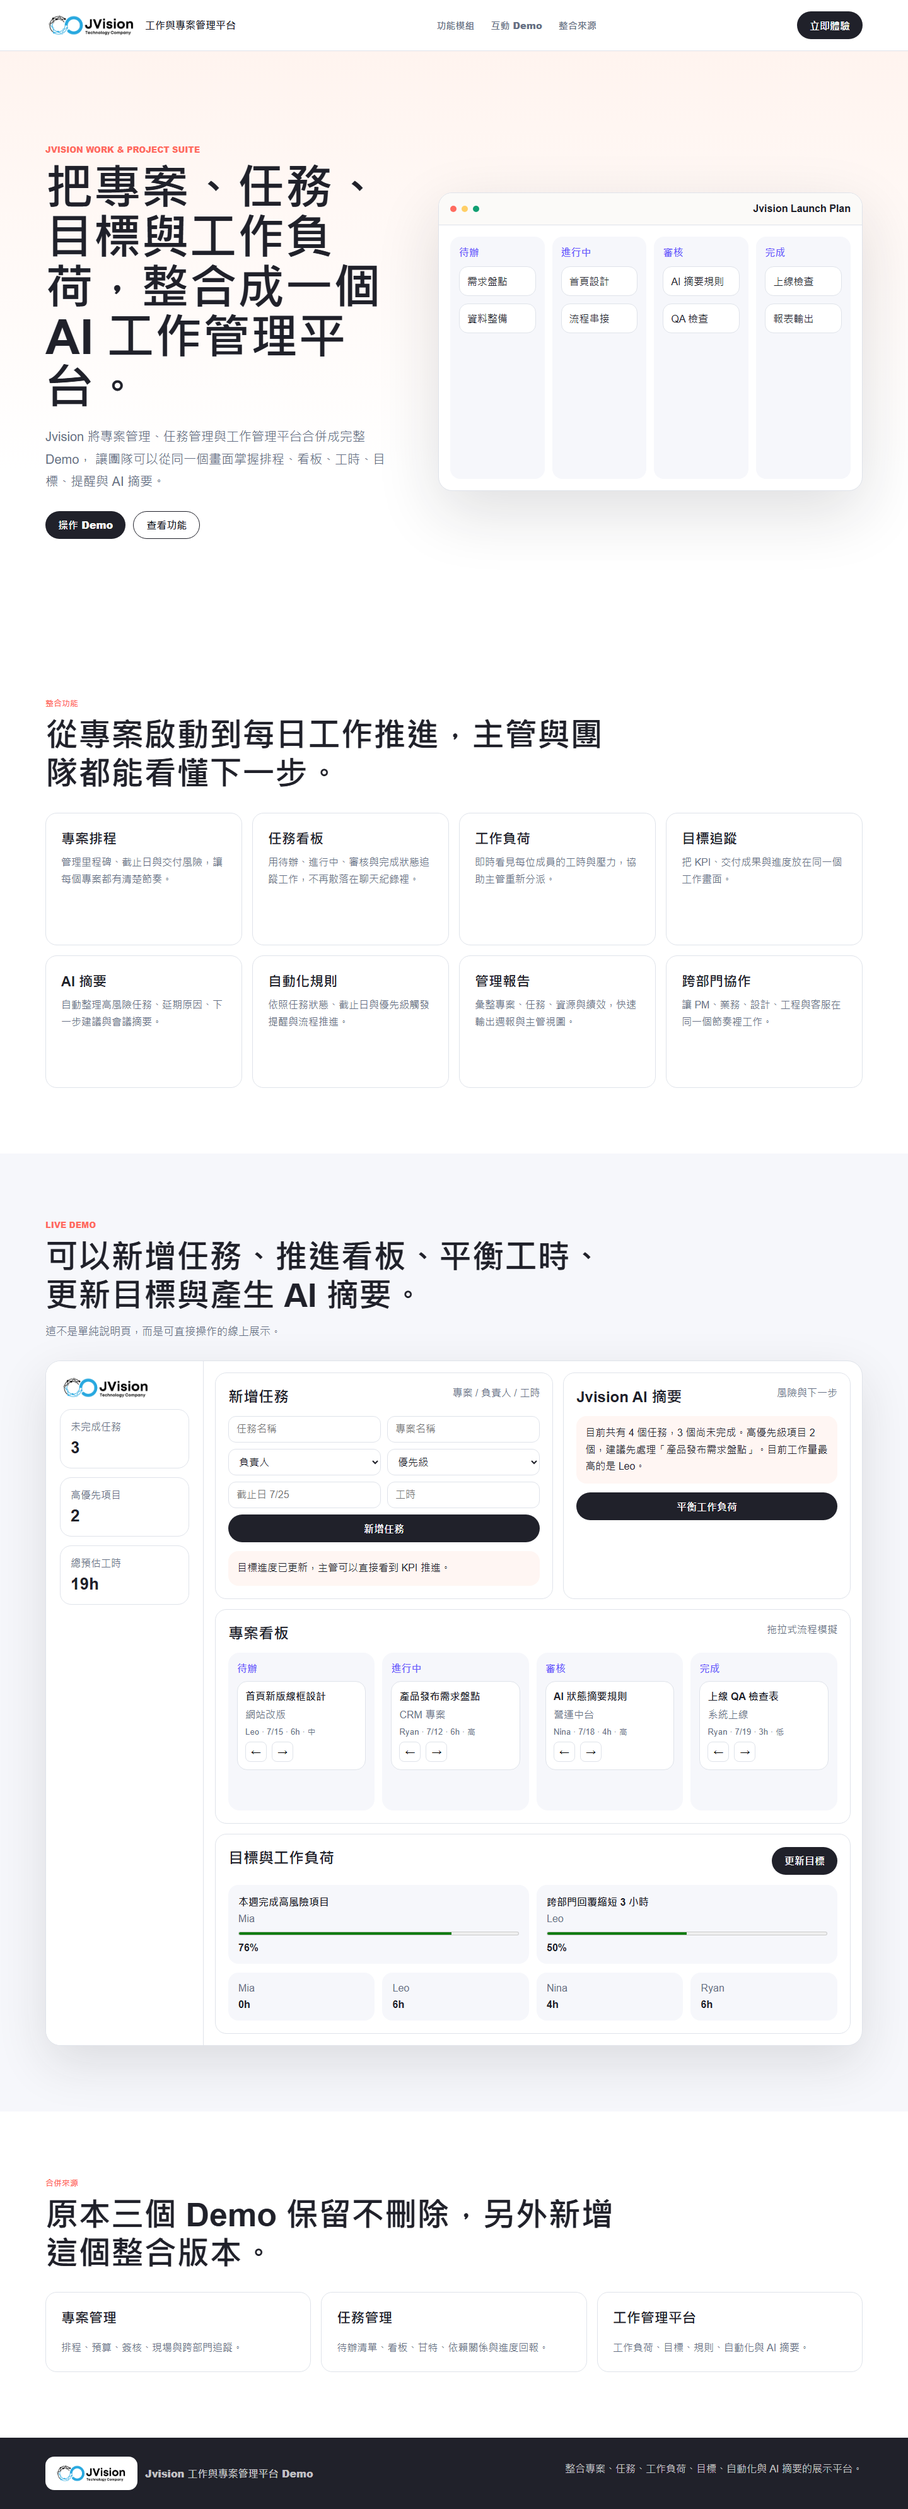
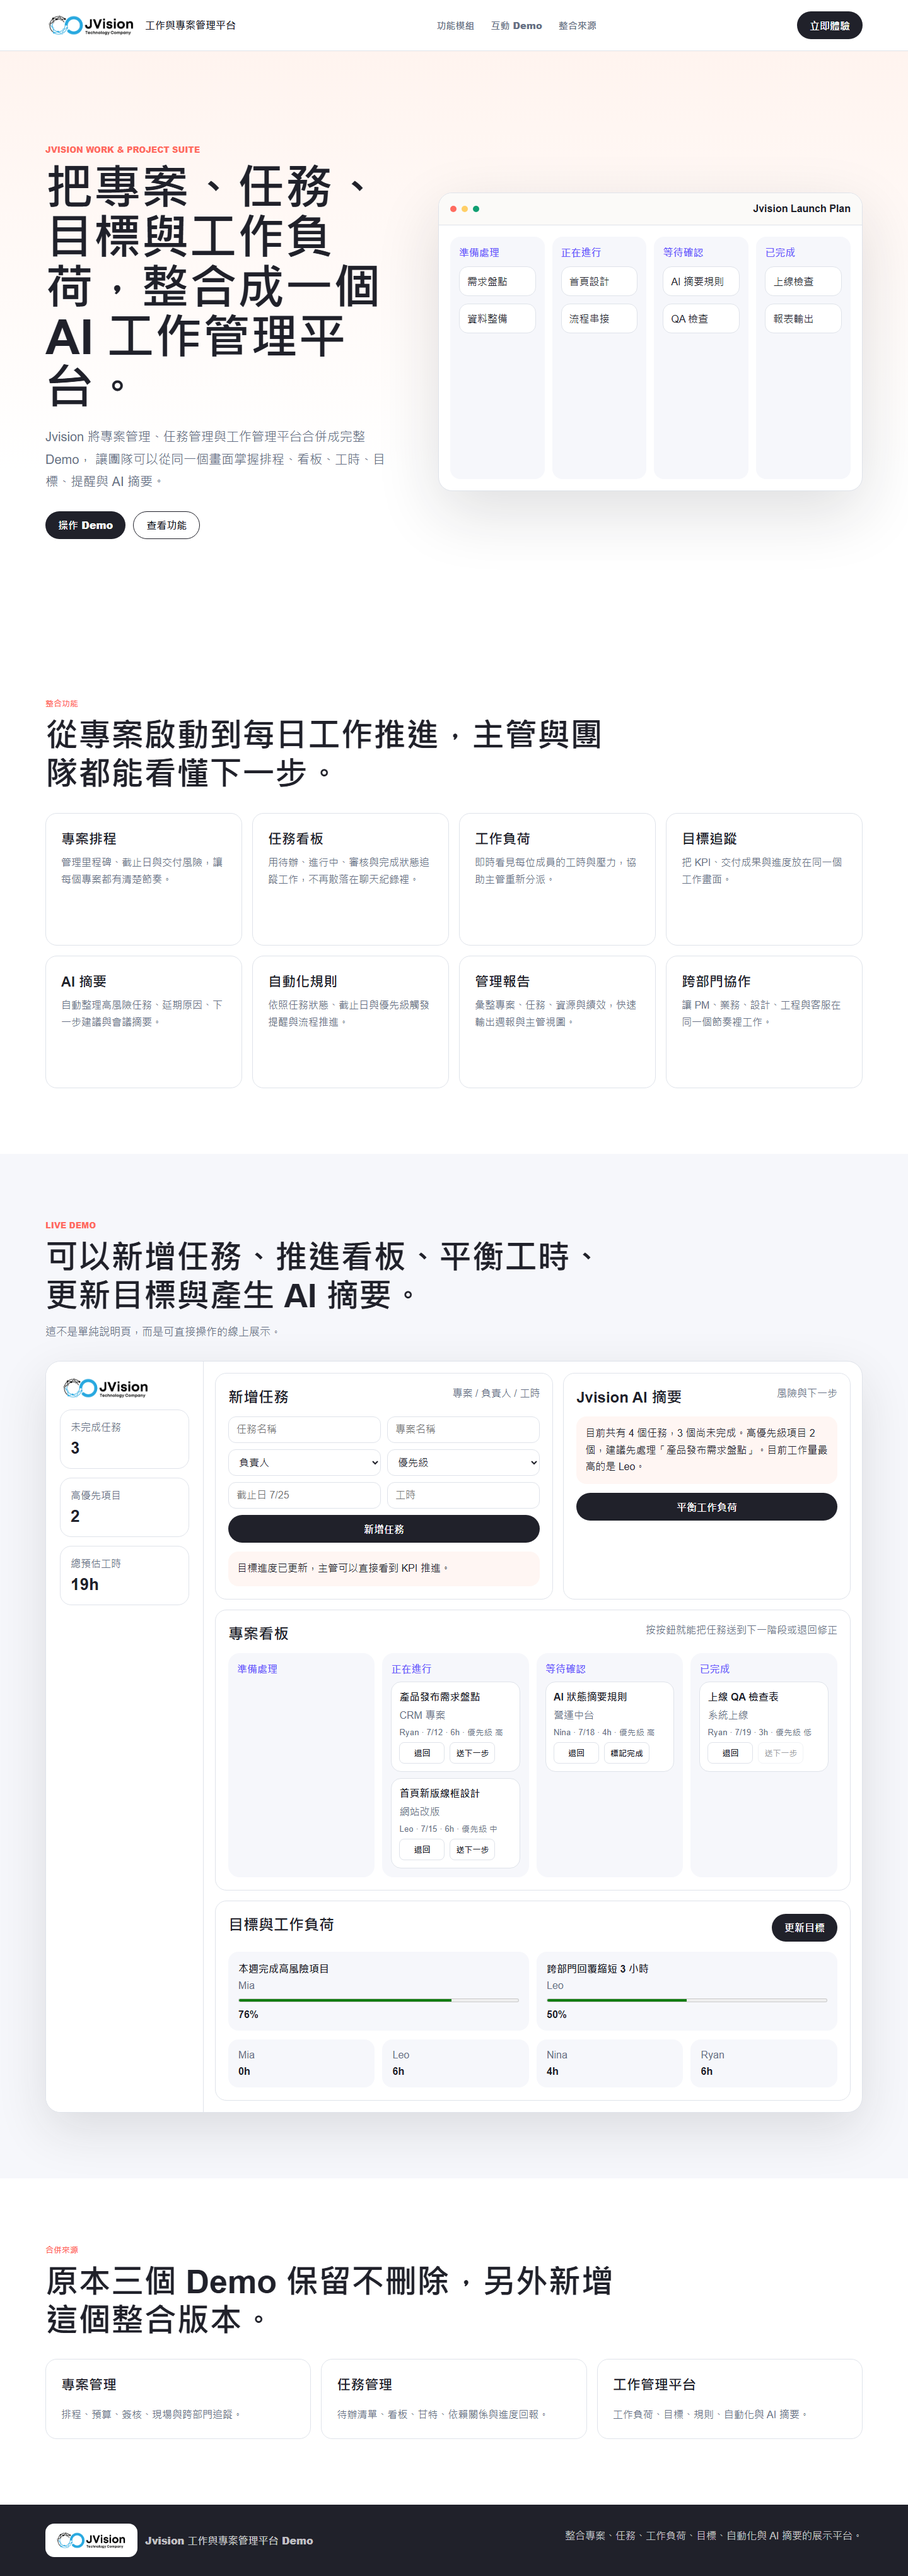
Improve work board workflow labels

diff --git a/src/components/work-project-demo.tsx b/src/components/work-project-demo.tsx
@@ -2,21 +2,21 @@
 
 import { FormEvent, useMemo, useState } from "react";
 
-type Stage = "待辦" | "進行中" | "審核" | "完成";
+type Stage = "準備處理" | "正在進行" | "等待確認" | "已完成";
 type Priority = "高" | "中" | "低";
 type Task = { id: number; title: string; project: string; owner: string; due: string; hours: number; stage: Stage; priority: Priority };
 type Goal = { id: number; title: string; owner: string; progress: number };
 
-const stages: Stage[] = ["待辦", "進行中", "審核", "完成"];
+const stages: Stage[] = ["準備處理", "正在進行", "等待確認", "已完成"];
 const priorities: Priority[] = ["高", "中", "低"];
 const owners = ["Mia", "Leo", "Nina", "Ryan"];
 
 export function WorkProjectDemo() {
   const [tasks, setTasks] = useState<Task[]>([
-    { id: 1, title: "產品發布需求盤點", project: "CRM 專案", owner: "Mia", due: "7/12", hours: 8, stage: "進行中", priority: "高" },
-    { id: 2, title: "首頁新版線框設計", project: "網站改版", owner: "Leo", due: "7/15", hours: 6, stage: "待辦", priority: "中" },
-    { id: 3, title: "AI 狀態摘要規則", project: "營運中台", owner: "Nina", due: "7/18", hours: 4, stage: "審核", priority: "高" },
-    { id: 4, title: "上線 QA 檢查表", project: "系統上線", owner: "Ryan", due: "7/19", hours: 3, stage: "完成", priority: "低" },
+    { id: 1, title: "產品發布需求盤點", project: "CRM 專案", owner: "Mia", due: "7/12", hours: 8, stage: "正在進行", priority: "高" },
+    { id: 2, title: "首頁新版線框設計", project: "網站改版", owner: "Leo", due: "7/15", hours: 6, stage: "準備處理", priority: "中" },
+    { id: 3, title: "AI 狀態摘要規則", project: "營運中台", owner: "Nina", due: "7/18", hours: 4, stage: "等待確認", priority: "高" },
+    { id: 4, title: "上線 QA 檢查表", project: "系統上線", owner: "Ryan", due: "7/19", hours: 3, stage: "已完成", priority: "低" },
   ]);
   const [goals, setGoals] = useState<Goal[]>([
     { id: 1, title: "本週完成高風險項目", owner: "Mia", progress: 68 },
@@ -25,18 +25,18 @@ export function WorkProjectDemo() {
   const [message, setMessage] = useState("新增任務、推進看板或點擊 AI 摘要，系統會即時更新工作狀態。");
 
   const metrics = useMemo(() => {
-    const pending = tasks.filter((task) => task.stage !== "完成").length;
-    const highRisk = tasks.filter((task) => task.priority === "高" && task.stage !== "完成").length;
+    const pending = tasks.filter((task) => task.stage !== "已完成").length;
+    const highRisk = tasks.filter((task) => task.priority === "高" && task.stage !== "已完成").length;
     const totalHours = tasks.reduce((sum, task) => sum + task.hours, 0);
     const byOwner = owners.map((owner) => ({
       owner,
-      hours: tasks.filter((task) => task.owner === owner && task.stage !== "完成").reduce((sum, task) => sum + task.hours, 0),
+      hours: tasks.filter((task) => task.owner === owner && task.stage !== "已完成").reduce((sum, task) => sum + task.hours, 0),
     }));
     return { pending, highRisk, totalHours, byOwner };
   }, [tasks]);
 
   const aiSummary = `目前共有 ${tasks.length} 個任務，${metrics.pending} 個尚未完成。高優先級項目 ${metrics.highRisk} 個，建議先處理「${
-    tasks.find((task) => task.priority === "高" && task.stage !== "完成")?.title ?? "無"
+    tasks.find((task) => task.priority === "高" && task.stage !== "已完成")?.title ?? "無"
   }」。目前工作量最高的是 ${[...metrics.byOwner].sort((a, b) => b.hours - a.hours)[0].owner}。`;
 
   function addTask(event: FormEvent<HTMLFormElement>) {
@@ -50,11 +50,11 @@ export function WorkProjectDemo() {
       owner: String(form.get("owner")),
       due: String(form.get("due")),
       hours: Number(form.get("hours")) || 1,
-      stage: "待辦",
+      stage: "準備處理",
       priority: String(form.get("priority")) as Priority,
     };
     setTasks((rows) => [task, ...rows]);
-    setMessage(`${title} 已加入待辦，Jvision 會同步更新看板與工作負荷。`);
+    setMessage(`${title} 已加入準備處理，Jvision 會同步更新看板與工作負荷。`);
     event.currentTarget.reset();
   }
 
@@ -67,7 +67,7 @@ export function WorkProjectDemo() {
         return { ...task, stage: next };
       }),
     );
-    setMessage("看板狀態已更新，系統會重新整理專案進度與 AI 摘要。");
+    setMessage(direction > 0 ? "任務已送到下一階段，專案進度與 AI 摘要會同步更新。" : "任務已退回上一階段，方便重新補資料或修正內容。");
   }
 
   function balanceWorkload() {
@@ -134,23 +134,28 @@ export function WorkProjectDemo() {
         <section className="demo-panel board-panel">
           <div className="panel-heading">
             <h3>專案看板</h3>
-            <span>拖拉式流程模擬</span>
+            <span>按按鈕就能把任務送到下一階段或退回修正</span>
           </div>
           <div className="kanban">
             {stages.map((stage) => (
               <div className="stage" key={stage}>
                 <strong>{stage}</strong>
-                {tasks.filter((task) => task.stage === stage).map((task) => (
-                  <article className="task-card" key={task.id}>
-                    <b>{task.title}</b>
-                    <span>{task.project}</span>
-                    <small>{task.owner} · {task.due} · {task.hours}h · {task.priority}</small>
-                    <div>
-                      <button type="button" onClick={() => moveTask(task.id, -1)}>←</button>
-                      <button type="button" onClick={() => moveTask(task.id, 1)}>→</button>
-                    </div>
-                  </article>
-                ))}
+                {tasks.filter((task) => task.stage === stage).map((task) => {
+                  const index = stages.indexOf(task.stage);
+                  return (
+                    <article className="task-card" key={task.id}>
+                      <b>{task.title}</b>
+                      <span>{task.project}</span>
+                      <small>{task.owner} · {task.due} · {task.hours}h · 優先級 {task.priority}</small>
+                      <div className="workflow-actions">
+                        <button type="button" onClick={() => moveTask(task.id, -1)} disabled={index === 0}>退回</button>
+                        <button type="button" onClick={() => moveTask(task.id, 1)} disabled={index === stages.length - 1}>
+                          {index === stages.length - 2 ? "標記完成" : "送下一步"}
+                        </button>
+                      </div>
+                    </article>
+                  );
+                })}
               </div>
             ))}
           </div>

diff --git a/src/app/page.tsx b/src/app/page.tsx
@@ -55,10 +55,10 @@ export default function Home() {
           </div>
           <div className="board-grid">
             {[
-              ["待辦", "需求盤點", "資料整備"],
-              ["進行中", "首頁設計", "流程串接"],
-              ["審核", "AI 摘要規則", "QA 檢查"],
-              ["完成", "上線檢查", "報表輸出"],
+              ["準備處理", "需求盤點", "資料整備"],
+              ["正在進行", "首頁設計", "流程串接"],
+              ["等待確認", "AI 摘要規則", "QA 檢查"],
+              ["已完成", "上線檢查", "報表輸出"],
             ].map(([stage, first, second]) => (
               <div key={stage}>
                 <b>{stage}</b>

diff --git a/src/app/globals.css b/src/app/globals.css
@@ -292,11 +292,21 @@ input, select {
 }
 .task-card div { display: flex; gap: 8px; }
 .task-card button {
-  width: 34px;
-  height: 32px;
+  min-width: 72px;
+  height: 34px;
   border: 1px solid var(--line);
   border-radius: 8px;
   background: #fff;
+  color: var(--ink);
+  font-size: 13px;
+  font-weight: 800;
+}
+.task-card button:disabled {
+  cursor: not-allowed;
+  opacity: 0.42;
+}
+.workflow-actions {
+  flex-wrap: wrap;
 }
 .goal-grid, .workload-grid {
   display: grid;
